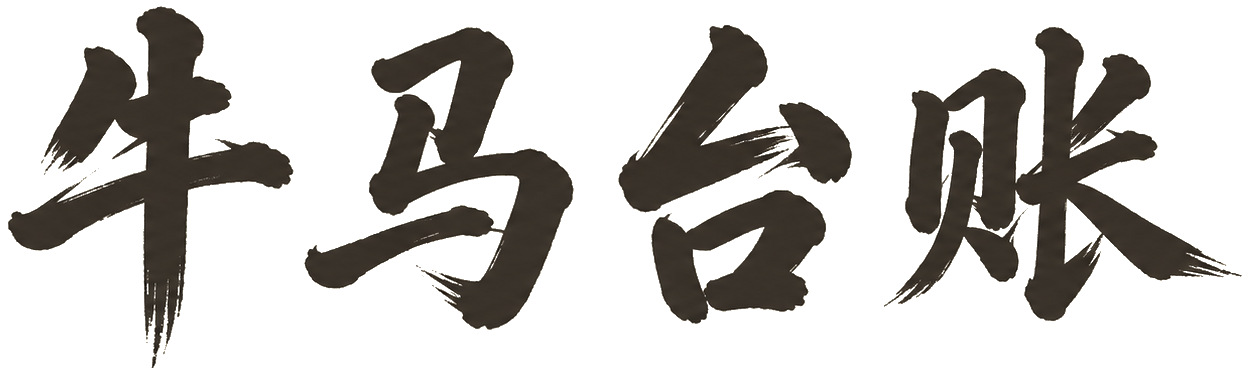
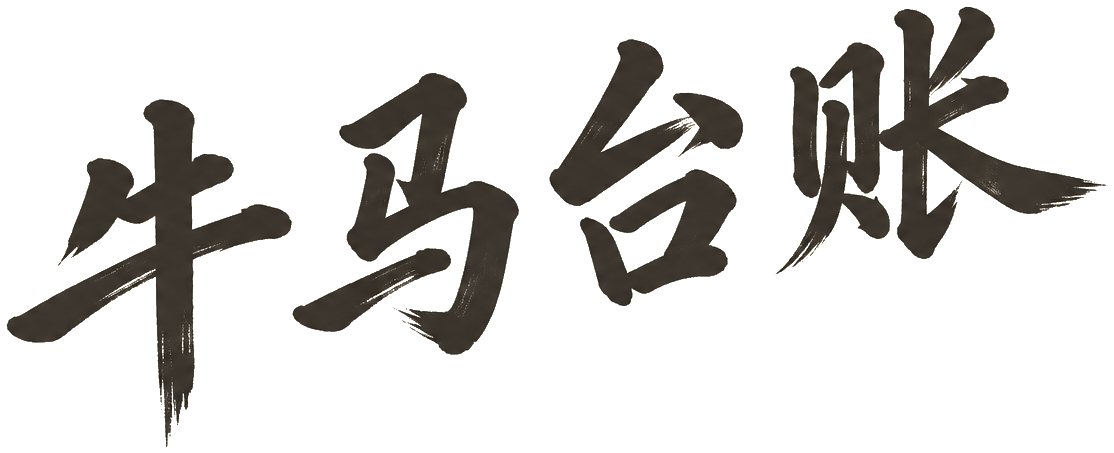
feat(butler): 台账标题图换绘语重绘倾斜版——左下→右上约 7.5 度上扬动势自带于字形（亮度抠像透明底、裁切边零残留），去掉 CSS 叠加旋转避免双重倾斜；单字面缩至原 0.12.1 版约六成

Changed region(s): [[0.0, 0.0, 1.0, 0.9706]]

diff --git a/plugins/external/dsh-butler-console/web/index.html b/plugins/external/dsh-butler-console/web/index.html
@@ -33,7 +33,7 @@
             <path d="M17 2.6 C 18 6.2, 19 8.4, 21.4 9.6 C 24.2 10.8, 27.4 10.6, 30.8 10 C 28.6 12.8, 27.2 15, 26.8 17.4 C 26.4 19.8, 27.2 22.4, 28.8 25.4 C 25.6 24.4, 23 24.2, 20.6 25.2 C 18.2 26.2, 16.4 28.2, 14.6 30.4 C 14.2 27, 13.4 24.6, 11.6 22.8 C 9.8 21, 7.2 20, 3.6 19.6 C 6.6 17.6, 8.6 15.6, 9.6 13.2 C 10.6 10.8, 10.4 8, 9.4 4.8 C 12.4 6.4, 14.8 6.8, 17 2.6 Z" fill="#ffb703" stroke="#4a423a" stroke-width="1.7" stroke-linejoin="round"/>
           </svg>
           <h2 class="brand__title" aria-label="牛马台账">
-            <img src="/butler/assets/media/titles/title-left.png" alt="" height="52">
+            <img src="/butler/assets/media/titles/title-left.png" alt="" height="58">
           </h2>
           <svg class="brand__wave" viewBox="0 0 150 8" preserveAspectRatio="none" aria-hidden="true">
             <path d="M2 5 C 15 1, 28 8, 42 4 S 70 1, 84 5 S 112 8, 126 4 S 142 2, 148 5" fill="none" stroke="currentColor" stroke-width="2.2" stroke-linecap="round"/>

diff --git a/plugins/external/dsh-butler-console/web/style.css b/plugins/external/dsh-butler-console/web/style.css
@@ -286,8 +286,9 @@ textarea:focus-visible,
 .brand { position: relative; padding: 4px 2px 0; }
 .brand__badge { position: absolute; top: -16px; right: 6px; width: 38px; height: 37px; transform: rotate(14deg); filter: drop-shadow(1px 2px 0 #00000022); }
 /* 描摹版大标题：字形逐笔取自原型 C（位图墨迹 → 矢量描摹），显示尺寸按原型实测字形高度（65px@1536 → ~64px@1600）。 */
+/* 绘语重绘版大标题：图自带左下→右上约 8 度上扬动势（毛笔字 + 亮度抠像透明底），不再叠加 CSS 旋转。 */
 .brand__title { margin: 0; line-height: 0; }
-.brand__title img { display: block; height: 53px; width: auto; transform: rotate(-3.5deg); transform-origin: 20% 90%; }
+.brand__title img { display: block; height: 60px; width: auto; }
 .brand__wave { display: block; width: 158px; height: 8px; margin-top: 2px; color: #4d96ff; }
 .left__brandline { font-family: var(--bt-hand); font-size: 14px; color: var(--bt-ink-soft); margin-top: 2px; }
 
